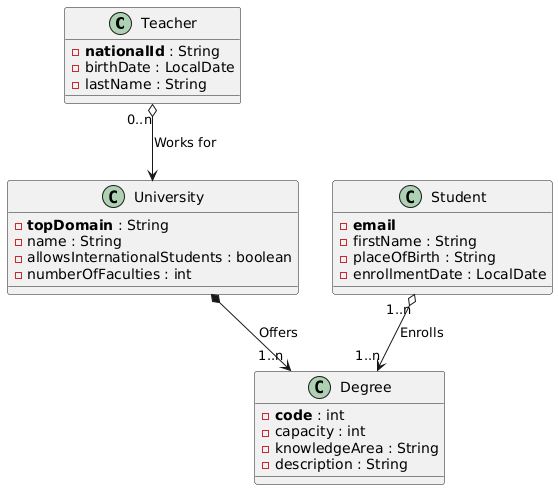
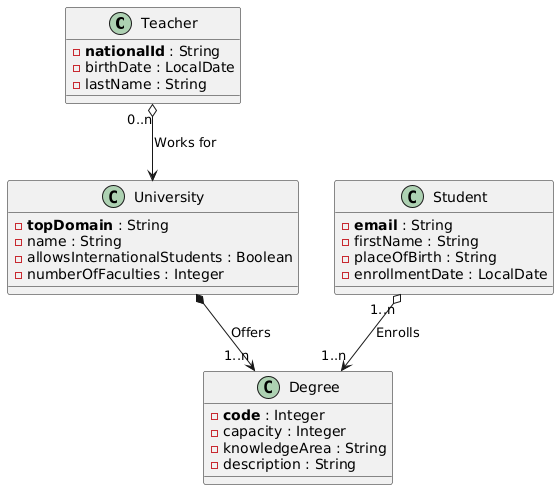
Migrates primitive types int and boolean to its wrapper ones Integer and Boolean #820

diff --git a/src/main/java/es/upm/miw/apaw_practice/domain/models/university/University.java b/src/main/java/es/upm/miw/apaw_practice/domain/models/university/University.java
@@ -5,8 +5,8 @@ import java.util.List;
 public class University {
     private String topDomain;
     private String name;
-    private boolean allowsInternationalStudents;
-    private int numberOfFaculties;
+    private Boolean allowsInternationalStudents;
+    private Integer numberOfFaculties;
     private List<Degree> degreesOffered;
 
     public University() {
@@ -37,19 +37,19 @@ public class University {
         this.name = name;
     }
 
-    public boolean isAllowsInternationalStudents() {
+    public Boolean isAllowsInternationalStudents() {
         return allowsInternationalStudents;
     }
 
-    public void setAllowsInternationalStudents(boolean allowsInternationalStudents) {
+    public void setAllowsInternationalStudents(Boolean allowsInternationalStudents) {
         this.allowsInternationalStudents = allowsInternationalStudents;
     }
 
-    public int getNumberOfFaculties() {
+    public Integer getNumberOfFaculties() {
         return numberOfFaculties;
     }
 
-    public void setNumberOfFaculties(int numberOfFaculties) {
+    public void setNumberOfFaculties(Integer numberOfFaculties) {
         this.numberOfFaculties = numberOfFaculties;
     }
 

diff --git a/src/main/java/es/upm/miw/apaw_practice/domain/models/university/Degree.java b/src/main/java/es/upm/miw/apaw_practice/domain/models/university/Degree.java
@@ -1,8 +1,8 @@
 package es.upm.miw.apaw_practice.domain.models.university;
 
 public class Degree {
-    private int code;
-    private int capacity;
+    private Integer code;
+    private Integer capacity;
     private String knowledgeArea;
     private String description;
 
@@ -17,19 +17,19 @@ public class Degree {
         this.description = description;
     }
 
-    public int getCode() {
+    public Integer getCode() {
         return code;
     }
 
-    public void setCode(int code) {
+    public void setCode(Integer code) {
         this.code = code;
     }
 
-    public int getCapacity() {
+    public Integer getCapacity() {
         return capacity;
     }
 
-    public void setCapacity(int capacity) {
+    public void setCapacity(Integer capacity) {
         this.capacity = capacity;
     }
 
